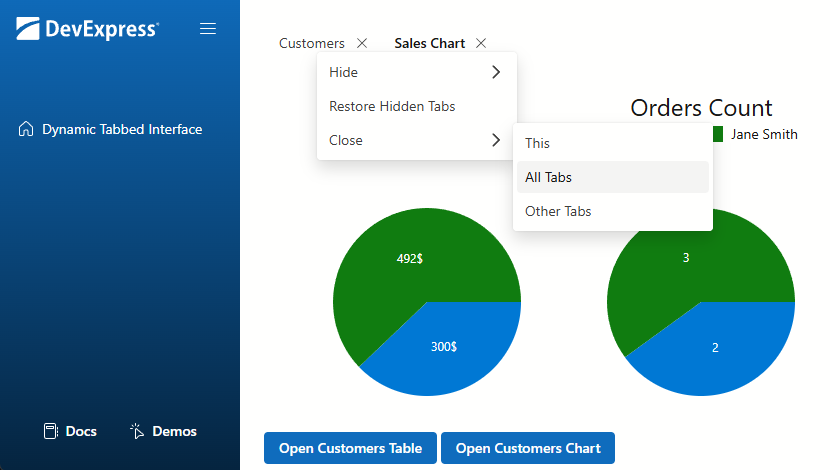
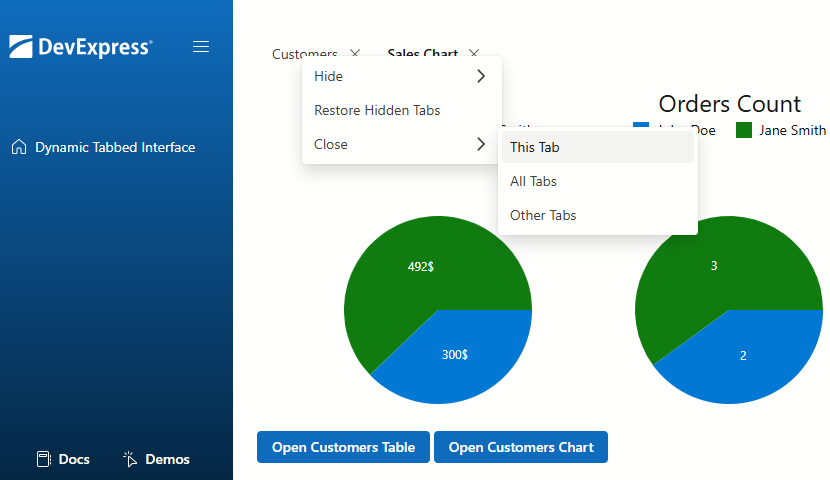
Editorial review and minor code fixes

diff --git a/README.md b/README.md
@@ -6,11 +6,9 @@
 <!-- default badges end -->
 # Blazor Tabs - Create a Dynamic Tabbed Interface
 
-The example creates an interactive, multi-tab web interface using DevExpress Blazor [Tabs](https://docs.devexpress.com/Blazor/405074/components/layout/tabs) and [Context Menu](https://docs.devexpress.com/Blazor/405060/components/navigation-controls/context-menu) components.
+This example creates an interactive, multi-tab web interface using DevExpress Blazor [Tabs](https://docs.devexpress.com/Blazor/405074/components/layout/tabs) and [Context Menu](https://docs.devexpress.com/Blazor/405060/components/navigation-controls/context-menu) components. It illustrates how end users can create personalized workspaces and multitask effectively.
 
 ![Multi-Tab UI](images/blazor-tabbed-ui.png)
-
-It illustrates how end users can create personalized workspaces and multitask effectively.
 
 ## Implementation Details
 
@@ -18,7 +16,7 @@ It illustrates how end users can create personalized workspaces and multitask ef
 
 The [MdiTabs](CS/blazor_multi_tab_ui/Components/MDI/MdiTabs.razor) custom component is based on the [DxTabs](https://docs.devexpress.com/Blazor/DevExpress.Blazor.DxTabs) control.
 
-Tabs are iteratively rendered from a persisted state collection (see details below). The content within each tab is loaded dynamically using a [DynamicComponent](https://learn.microsoft.com/en-us/dotnet/api/microsoft.aspnetcore.components.dynamiccomponent). This approach allows for the flexible rendering of different components within the tabs without the need to hardcode them.
+Tabs are rendered by iterating over a persisted state collection (see details below). The content within each tab is loaded dynamically using a [DynamicComponent](https://learn.microsoft.com/en-us/dotnet/api/microsoft.aspnetcore.components.dynamiccomponent). This approach allows for the flexible rendering of different components within the tabs without the need to hardcode them.
 
 ```razor
 <DxTabs ActiveTabIndex=activeTabIndex